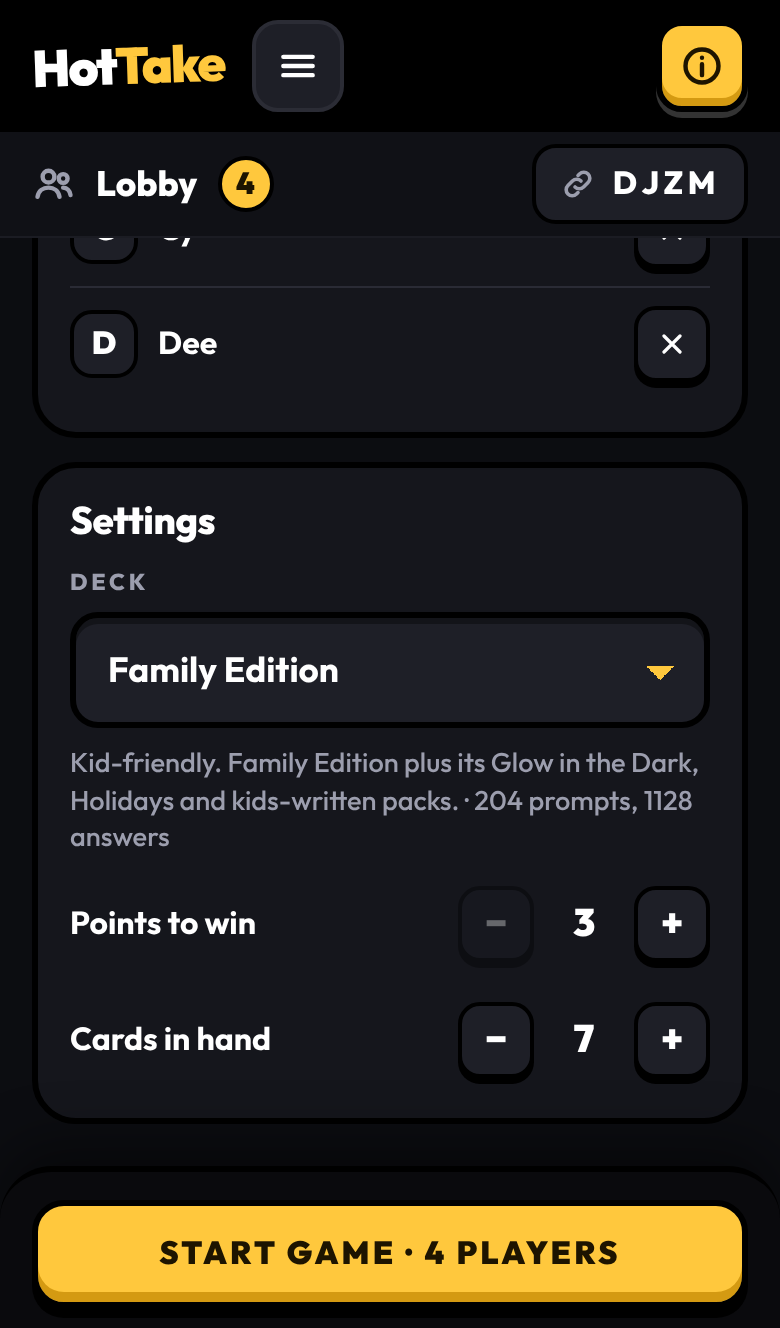
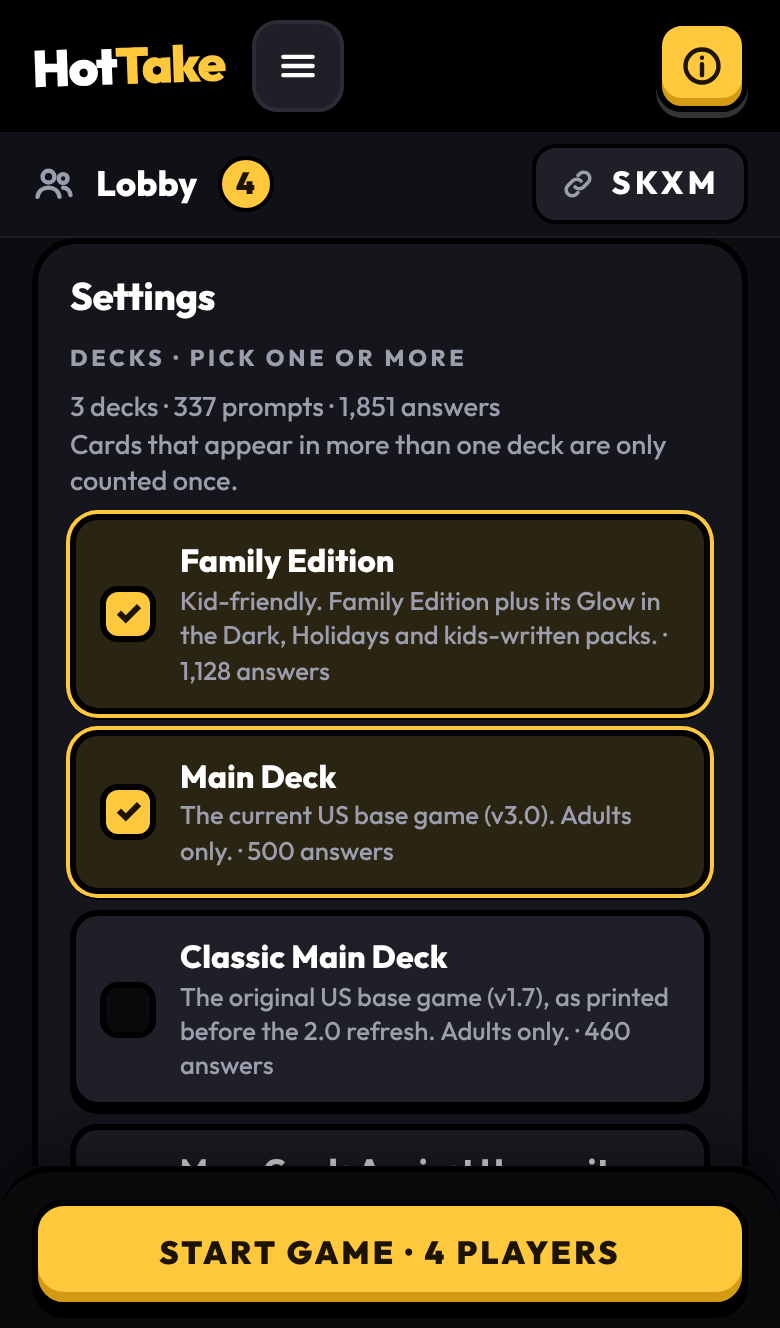
Let the host combine multiple decks
The lobby's deck dropdown is now a checklist. Selected decks are merged
into one pile, cards shared between decks are dealt only once, and the
lobby shows the combined totals. At least one deck must stay selected.

Claude-Session: https://claude.ai/code/session_01SNwHtWrVAugYjgPZZTF31A

Changed region(s): [[0.0615, 0.1235, 0.9538, 0.8953], [0.0308, 0.1852, 0.0615, 0.2161]]

diff --git a/server/game.js b/server/game.js
@@ -94,7 +94,7 @@ function cleanName(raw) {
  * Every mutating method throws GameError on an illegal move; callers broadcast state afterwards.
  */
 class Room {
-  /** `decks` is an array of normalizeDeck() results; the first one is the default. */
+  /** `decks` is an array of normalizeDeck() results; the first one is selected by default. */
   constructor(code, decks) {
     if (!decks.length) throw new Error('A room needs at least one deck');
     this.code = code;
@@ -104,7 +104,7 @@ class Room {
     this.phase = 'lobby';
     this.settings = {
       ...Object.fromEntries(Object.entries(SETTING_LIMITS).map(([k, v]) => [k, v.default])),
-      deckId: decks[0].id,
+      deckIds: [decks[0].id],
     };
     this.round = 0;
     this.judgeId = null;
@@ -122,8 +122,25 @@ class Room {
 
   // ---- lookups -----------------------------------------------------------
 
+  /**
+   * The selected decks merged into one pile. A card that appears in more than one deck (the
+   * "Everything" deck overlaps the others, for example) is only included once.
+   */
   get deck() {
-    return this.decks.find((d) => d.id === this.settings.deckId) || this.decks[0];
+    const key = this.settings.deckIds.join('|');
+    if (this.combined?.key !== key) {
+      const chosen = this.decks.filter((d) => this.settings.deckIds.includes(d.id));
+      const seenPrompts = new Set();
+      const seenAnswers = new Set();
+      const once = (seen, text) => !seen.has(normalizeText(text)) && seen.add(normalizeText(text));
+      this.combined = {
+        key,
+        name: chosen.length === 1 ? `The ${chosen[0].name} deck has` : `The ${chosen.length} selected decks have`,
+        prompts: chosen.flatMap((d) => d.prompts).filter((p) => once(seenPrompts, p.text)),
+        answers: chosen.flatMap((d) => d.answers).filter((a) => once(seenAnswers, a.text)),
+      };
+    }
+    return this.combined;
   }
 
   player(id) {
@@ -246,9 +263,12 @@ class Room {
       if (!Number.isFinite(value)) continue;
       this.settings[key] = Math.min(limits.max, Math.max(limits.min, value));
     }
-    if (changes.deckId !== undefined) {
-      if (!this.decks.some((d) => d.id === changes.deckId)) throw new GameError('That deck does not exist.');
-      this.settings.deckId = changes.deckId;
+    if (changes.deckIds !== undefined) {
+      const ids = Array.isArray(changes.deckIds) ? changes.deckIds : [];
+      if (ids.length === 0) throw new GameError('Pick at least one deck.');
+      if (ids.some((id) => !this.decks.some((d) => d.id === id))) throw new GameError('That deck does not exist.');
+      // Keep the lobby's deck order regardless of the order they were ticked in.
+      this.settings.deckIds = this.decks.map((d) => d.id).filter((id) => ids.includes(id));
     }
     this.touch();
   }
@@ -262,7 +282,7 @@ class Room {
     const needed = this.players.length * (this.settings.handSize + 2);
     if (this.deck.answers.length < needed) {
       throw new GameError(
-        `The ${this.deck.name} deck has ${this.deck.answers.length} answer cards; `
+        `${this.deck.name} ${this.deck.answers.length} answer cards; `
         + `${this.players.length} players with ${this.settings.handSize}-card hands need ${needed}.`,
       );
     }
@@ -470,6 +490,8 @@ class Room {
       decks: this.decks.map((d) => ({
         id: d.id, name: d.name, description: d.description, prompts: d.prompts.length, answers: d.answers.length,
       })),
+      // Totals for the selected decks combined, after removing cards they share.
+      deckTotals: { prompts: this.deck.prompts.length, answers: this.deck.answers.length },
       hostId: this.hostId,
       judgeId: this.judgeId,
       players: this.players.map((p) => ({

diff --git a/test/game.test.js b/test/game.test.js
@@ -302,12 +302,55 @@ test('host picks the deck in the lobby; game deals from it', () => {
   const host = room.join('H');
   const guest = room.join('G');
   room.join('X');
-  assert.equal(room.settings.deckId, 'one');
-  assert.throws(() => room.updateSettings(guest.id, { deckId: 'two' }), /host/);
-  assert.throws(() => room.updateSettings(host.id, { deckId: 'nope' }), /does not exist/);
-  room.updateSettings(host.id, { deckId: 'two' });
+  assert.deepEqual(room.settings.deckIds, ['one']);
+  assert.throws(() => room.updateSettings(guest.id, { deckIds: ['two'] }), /host/);
+  assert.throws(() => room.updateSettings(host.id, { deckIds: ['nope'] }), /does not exist/);
+  room.updateSettings(host.id, { deckIds: ['two'] });
   room.start(host.id);
   assert.ok(room.players.every((p) => p.hand.every((c) => c.text.startsWith('two '))));
-  assert.throws(() => room.updateSettings(host.id, { deckId: 'one' }), /between games/);
+  assert.throws(() => room.updateSettings(host.id, { deckIds: ['one'] }), /between games/);
   assert.deepEqual(room.viewFor(guest.id).decks.map((d) => d.id), ['one', 'two']);
+});
+
+test('several decks can be combined into one pile', () => {
+  const room = new Room('TEST', [makeDeck({ id: 'one' }), makeDeck({ id: 'two' }), makeDeck({ id: 'three' })]);
+  const host = room.join('H');
+  room.join('G');
+  room.join('X');
+  // Ticked out of order; stored in lobby order.
+  room.updateSettings(host.id, { deckIds: ['three', 'one'] });
+  assert.deepEqual(room.settings.deckIds, ['one', 'three']);
+  // makeDeck() gives every deck the same prompt text, so prompts collapse; answers are distinct.
+  assert.deepEqual(room.viewFor(host.id).deckTotals, { prompts: 20, answers: 400 });
+  room.start(host.id);
+  const prefixes = new Set(room.players.flatMap((p) => p.hand.map((c) => c.text.split(' ')[0])));
+  assert.ok([...prefixes].every((x) => x === 'one' || x === 'three'));
+});
+
+test('combining overlapping decks never deals the same card twice', () => {
+  const a = normalizeDeck({ prompts: [{ text: 'Shared ____' }, { text: 'Only A ____' }], answers: ['Same', 'A1', 'A2'] }, 'a');
+  const b = normalizeDeck({ prompts: [{ text: 'shared  ____' }], answers: ['same', 'B1'] }, 'b');
+  const room = new Room('TEST', [a, b]);
+  const host = room.join('H');
+  room.updateSettings(host.id, { deckIds: ['a', 'b'] });
+  assert.deepEqual(room.deck.prompts.map((p) => p.text), ['Shared ____', 'Only A ____']);
+  assert.deepEqual(room.deck.answers.map((x) => x.text), ['Same', 'A1', 'A2', 'B1']);
+});
+
+test('at least one deck must stay selected', () => {
+  const { room, host } = setup(3);
+  assert.throws(() => room.updateSettings(host.id, { deckIds: [] }), /at least one deck/);
+  assert.throws(() => room.updateSettings(host.id, { deckIds: 'test' }), /at least one deck/);
+  assert.deepEqual(room.settings.deckIds, ['test']);
+});
+
+test('the too-small-deck error counts the combined pile', () => {
+  const room = new Room('TEST', [makeDeck({ id: 'x', answers: 12 }), makeDeck({ id: 'y', answers: 12 })]);
+  const host = room.join('H');
+  room.join('G');
+  room.join('X');
+  room.updateSettings(host.id, { deckIds: ['x', 'y'] });
+  assert.throws(() => room.start(host.id), /The 2 selected decks have 24 answer cards.*need 27/);
+  room.updateSettings(host.id, { handSize: 5 });
+  room.start(host.id); // 3 x (5 + 2) = 21 <= 24
 });

diff --git a/public/app.js b/public/app.js
@@ -329,18 +329,41 @@
       </div>`;
   }
 
+  const num = (n) => n.toLocaleString('en-US');
+
   function deckPicker() {
-    const current = state.decks.find((d) => d.id === state.settings.deckId) || state.decks[0];
-    const control = isHost()
-      ? `<select id="deck" data-change="deck" aria-label="Deck"${busyAttr()}>
-           ${state.decks.map((d) => `<option value="${esc(d.id)}"${d.id === current.id ? ' selected' : ''}>${esc(d.name)}</option>`).join('')}
-         </select>`
-      : `<div class="setting"><span>Deck</span><output>${esc(current.name)}</output></div>`;
+    const selected = new Set(state.settings.deckIds);
+    const chosen = state.decks.filter((d) => selected.has(d.id));
+    const { prompts, answers } = state.deckTotals;
+    const summary = `
+      <p class="muted small">${plural(chosen.length, 'deck')} · ${num(prompts)} prompts · ${num(answers)} answers
+        ${chosen.length > 1 ? '<br>Cards that appear in more than one deck are only counted once.' : ''}</p>`;
+
+    if (!isHost()) {
+      return `
+        <div class="deck-row">
+          <span class="eyebrow">Decks</span>
+          <div class="deck-chips">${chosen.map((d) => `<span class="pill">${esc(d.name)}</span>`).join('')}</div>
+          ${summary}
+        </div>`;
+    }
+
+    const options = state.decks.map((d) => {
+      const on = selected.has(d.id);
+      return `
+        <button class="deck-opt${on ? ' on' : ''}" role="checkbox" aria-checked="${on}" data-act="deck" data-id="${esc(d.id)}"${busyAttr()}>
+          <span class="box" aria-hidden="true">${on ? '✓' : ''}</span>
+          <span class="deck-info">
+            <span class="deck-name">${esc(d.name)}</span>
+            <span class="deck-desc">${d.description ? `${esc(d.description)} · ` : ''}${num(d.answers)} answers</span>
+          </span>
+        </button>`;
+    }).join('');
     return `
       <div class="deck-row">
-        ${isHost() ? '<label for="deck" class="eyebrow">Deck</label>' : ''}
-        ${control}
-        <p class="muted small">${current.description ? `${esc(current.description)} · ` : ''}${current.prompts} prompts, ${current.answers} answers</p>
+        <span class="eyebrow">Decks · pick one or more</span>
+        ${summary}
+        <div class="deck-list" role="group" aria-label="Decks">${options}</div>
       </div>`;
   }
 
@@ -704,6 +727,17 @@
       case 'start':
         act('start');
         break;
+      case 'deck': {
+        const ids = new Set(state.settings.deckIds);
+        if (ids.has(id) && ids.size === 1) {
+          toast('Keep at least one deck selected.');
+          break;
+        }
+        if (ids.has(id)) ids.delete(id);
+        else ids.add(id);
+        act('settings', { settings: { deckIds: [...ids] } });
+        break;
+      }
       case 'card': {
         const pick = state.prompt.pick;
         const at = ui.cards.indexOf(id);
@@ -746,10 +780,6 @@
         }
         break;
     }
-  });
-
-  document.addEventListener('change', (e) => {
-    if (e.target.dataset.change === 'deck') act('settings', { settings: { deckId: e.target.value } });
   });
 
   document.addEventListener('keydown', (e) => {

diff --git a/public/style.css b/public/style.css
@@ -324,21 +324,15 @@ button.answer-card:active { transform: translateY(2px); }
 .form label { margin-top: 4px; }
 .form .btn { margin-top: 6px; }
 
-input[type=text], select {
+input[type=text] {
   width: 100%; font: inherit; font-weight: 700; font-size: 1.1rem; /* >= 16px stops iOS zoom on focus */
   padding: 14px 16px; border-radius: 14px; border: 3px solid var(--ink);
   background: var(--panel-2); color: var(--text); outline: none;
   box-shadow: inset 0 3px 0 rgba(0,0,0,.35);
 }
-input[type=text]:focus, select:focus { border-color: var(--yellow); }
+input[type=text]:focus { border-color: var(--yellow); }
 input::placeholder { color: #5d5f6e; }
 input.code { text-transform: uppercase; letter-spacing: .4em; font-weight: 900; text-align: center; font-size: 1.4rem; }
-select {
-  appearance: none; -webkit-appearance: none; padding-right: 44px;
-  background-image: linear-gradient(45deg, transparent 50%, var(--yellow) 50%), linear-gradient(135deg, var(--yellow) 50%, transparent 50%);
-  background-position: calc(100% - 22px) 52%, calc(100% - 15px) 52%;
-  background-size: 7px 7px; background-repeat: no-repeat;
-}
 
 .divider { display: flex; align-items: center; gap: 12px; color: var(--muted); font-size: .8rem; font-weight: 800; letter-spacing: .14em; text-transform: uppercase; }
 .divider::before, .divider::after { content: ""; flex: 1; height: 2px; background: var(--line); border-radius: 2px; }
@@ -360,6 +354,25 @@ select {
 .setting .ctl { display: flex; align-items: center; gap: 12px; }
 .setting output { min-width: 2ch; text-align: center; font-weight: 900; font-size: 1.2rem; }
 .deck-row { display: flex; flex-direction: column; gap: 8px; }
+.deck-list { display: flex; flex-direction: column; gap: 8px; }
+.deck-opt {
+  display: flex; align-items: center; gap: 12px; width: 100%; text-align: left;
+  background: var(--panel-2); color: var(--text);
+  border: 3px solid var(--ink); border-radius: 14px; padding: 10px 12px;
+  box-shadow: 0 3px 0 var(--ink);
+}
+.deck-opt:active:not(:disabled) { transform: translateY(2px); box-shadow: 0 1px 0 var(--ink); }
+.deck-opt.on { background: #2a2412; box-shadow: 0 0 0 2px var(--yellow), 0 3px 0 var(--ink); }
+.deck-opt .box {
+  width: 28px; height: 28px; flex: none; display: grid; place-items: center;
+  border: 3px solid var(--ink); border-radius: 9px; background: #0a0a0d;
+  font-weight: 900; color: var(--yellow-ink);
+}
+.deck-opt.on .box { background: var(--yellow); }
+.deck-info { display: flex; flex-direction: column; min-width: 0; }
+.deck-name { font-weight: 800; }
+.deck-desc { font-size: .8rem; font-weight: 500; color: var(--muted); }
+.deck-chips { display: flex; flex-wrap: wrap; gap: 6px; }
 
 /* ---- overlays ---- */
 

diff --git a/public/rules.js b/public/rules.js
@@ -8,7 +8,7 @@ window.HotTakeRules = {
       <ol>
         <li>One person starts a game and becomes the <strong>host</strong>. Everyone else joins on their phone
             by scanning the QR code or typing the 4-letter room code. You need 3 to 12 players.</li>
-        <li>The host picks a deck and the settings, then starts the game.</li>
+        <li>The host picks one or more decks and the settings, then starts the game.</li>
         <li>Everyone is dealt ${handSize} answer cards.</li>
       </ol>
       <h3>Each round</h3>

diff --git a/test/server.test.js b/test/server.test.js
@@ -37,7 +37,7 @@ test('three phones play a full round over sockets', async (t) => {
   assert.ok(cy.ok);
 
   assert.match((await phones[1].call('action', { type: 'start' })).error, /host/);
-  assert.ok((await phones[0].call('action', { type: 'settings', settings: { deckId: '02-main' } })).ok);
+  assert.ok((await phones[0].call('action', { type: 'settings', settings: { deckIds: ['02-main'] } })).ok);
   assert.ok((await phones[0].call('action', { type: 'start' })).ok);
   await settle();
 

diff --git a/README.md b/README.md
@@ -164,7 +164,7 @@ You can use either while cards are being played, as long as you haven't played y
     <td width="33%"><img src="docs/screenshots/watching.png" alt="Non-judge view while the judge decides"></td>
   </tr>
   <tr>
-    <td align="center"><b>Settings.</b> Deck, points to win (3–20), cards in hand (5–12).</td>
+    <td align="center"><b>Settings.</b> One or more decks, points to win (3–20), cards in hand (5–12).</td>
     <td align="center"><b>Menu.</b> Scores, invite QR, rules, remove players, skip a round.</td>
     <td align="center"><b>Everyone</b> follows along on their own phone.</td>
   </tr>
@@ -172,7 +172,7 @@ You can use either while cards are being played, as long as you haven't played y
 
 The first player to create the room is the **host**. The host can:
 
-- choose the **deck** and **settings** (only between games),
+- choose one or more **decks** and the **settings** (only between games),
 - **start** the game once 3 players are connected, and **play again** after it ends,
 - **remove** a player (the × next to their name),
 - **skip a round**, for when the judge's phone dies. Nobody scores and played cards go back to their owners.
@@ -195,7 +195,11 @@ If the host leaves, host passes to the next player.
 ## Decks
 
 Twelve decks ship in `data/decks/`. **Family Edition is listed first and is the default**, so every new
-room starts kid-safe; the host can switch decks in the lobby.
+room starts kid-safe.
+
+**The host can tick any number of decks** in the lobby, and the game shuffles them into one pile. That's handy
+for a big group or a long game. A card that appears in more than one selected deck is only dealt once, and the
+lobby shows the combined total so you can see how many cards you've got. At least one deck must stay selected.
 
 | # | Deck | Prompts | Answers | Notes |
 |---:|---|---:|---:|---|
@@ -355,11 +359,11 @@ hot-take/
 ```bash
 npm install
 npm run dev    # restarts the server when files change
-npm test       # 26 tests: rules engine, decks, sockets, invite endpoints
+npm test       # 30 tests: rules engine, decks, sockets, invite endpoints
 ```
 
 The tests cover:
-- **rules engine:** judge rotation, scoring and game end, pick-2 validation, no duplicate cards anywhere, mulligan and trade, judge or host leaving mid-round, reshuffling when the deck runs out, deck selection;
+- **rules engine:** judge rotation, scoring and game end, pick-2 validation, no duplicate cards anywhere, mulligan and trade, judge or host leaving mid-round, reshuffling when the deck runs out, choosing and combining decks;
 - **socket integration test:** three simulated phones play a round, drop, reconnect to the same seat, and time out;
 - **endpoints:** the QR code and invite URLs, including behind a reverse proxy;
 - **shipped decks:** every deck in `data/decks/` is valid and large enough for a full game.
